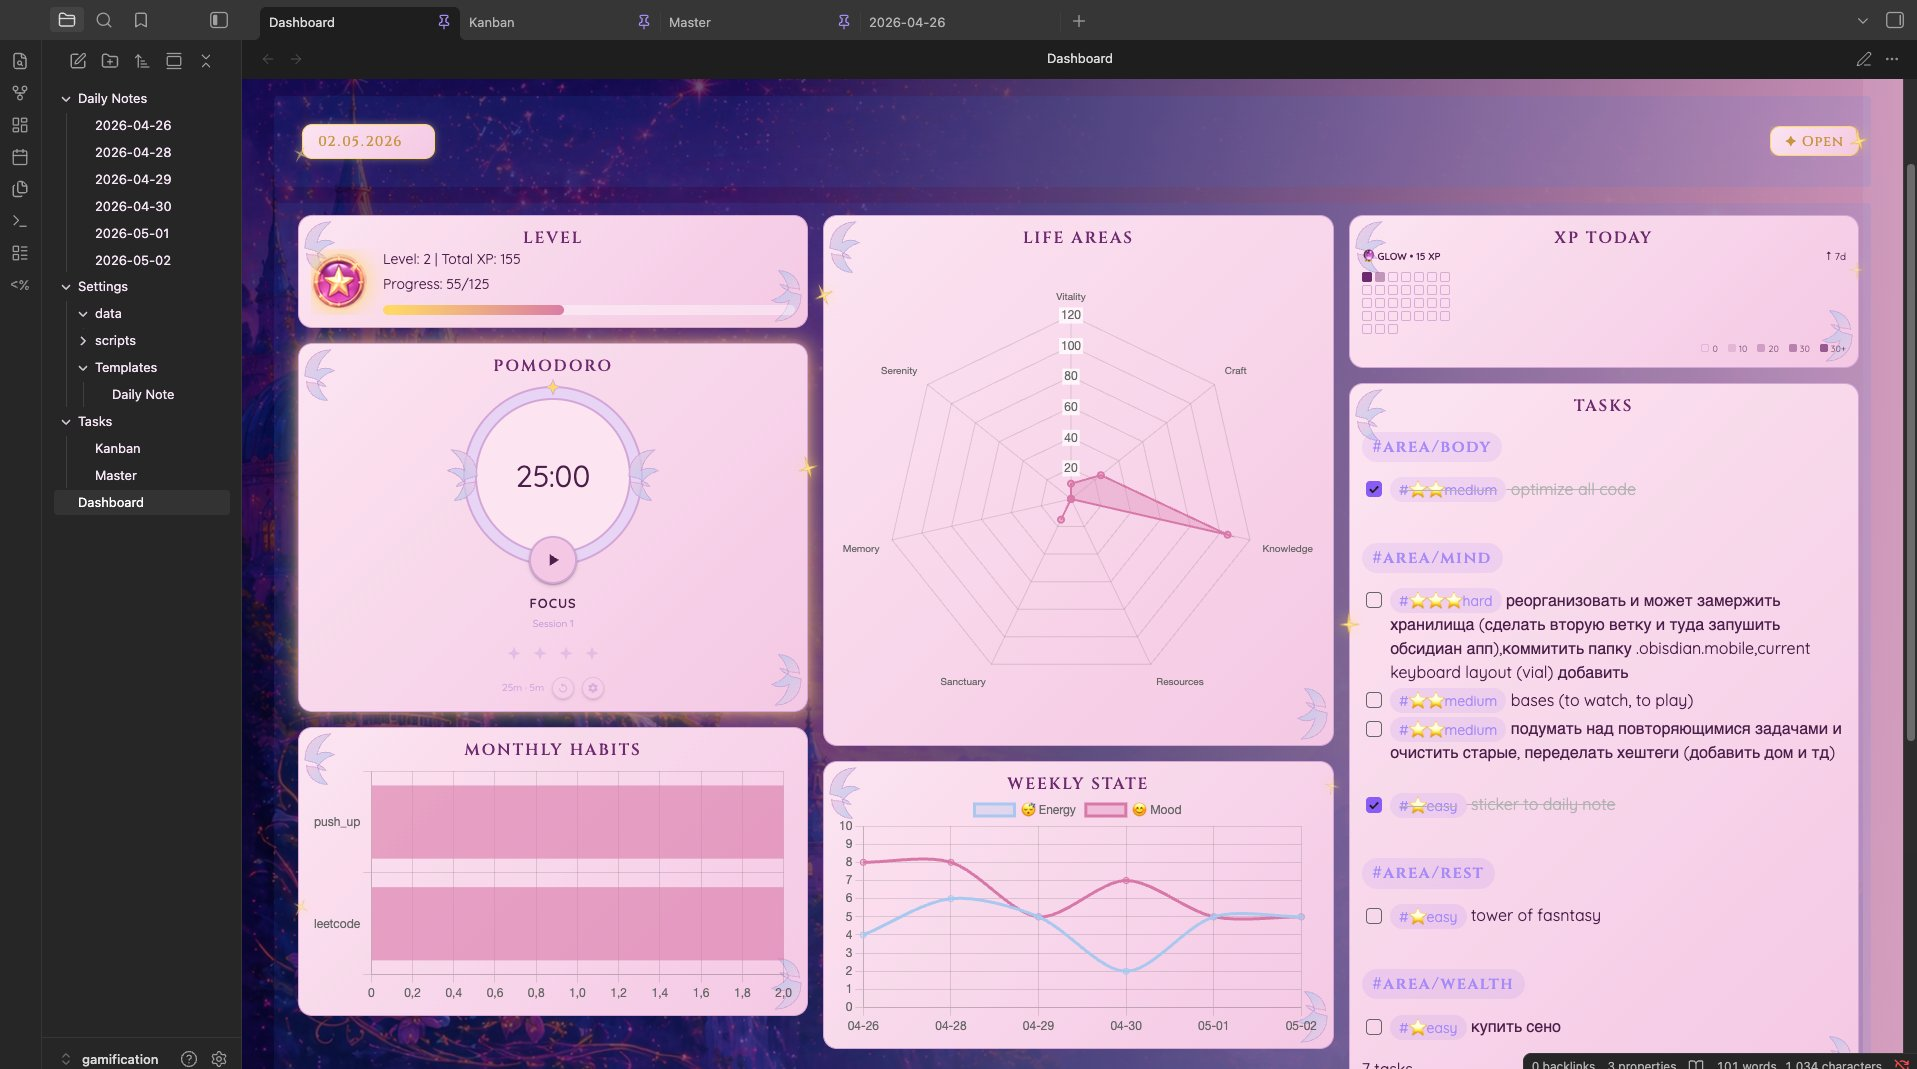
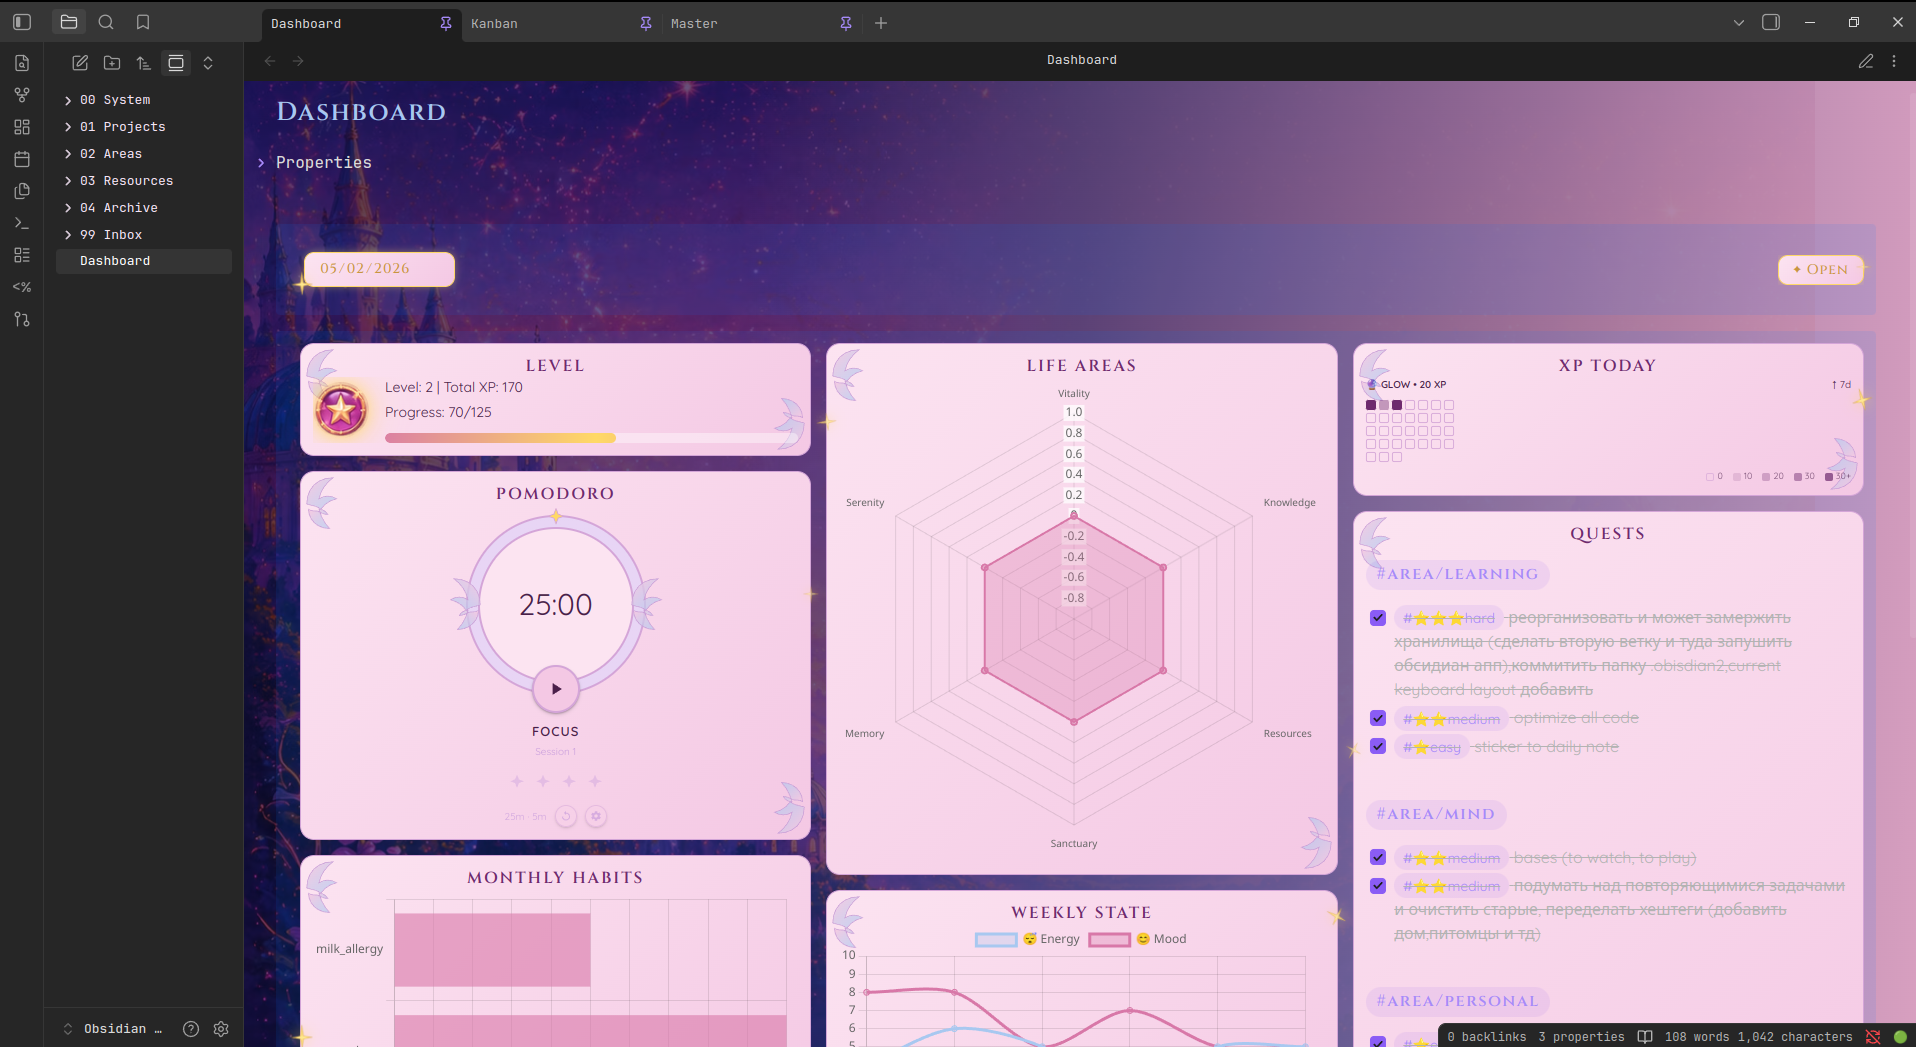
rename tasks

diff --git a/README.md b/README.md
@@ -123,4 +123,4 @@ Use the **QuickAdd `NewTask` macro**:
 | **Life Areas** | Radar chart — XP earned per area this month |
 | **Weekly State** | Line chart of energy & mood over the past week |
 | **XP Today** | XP earned today, current level name, streak heatmap |
-| **Tasks** | Tasks due today, grouped by life area tag |
+| **Quests** | Tasks due today, grouped by life area tag |
